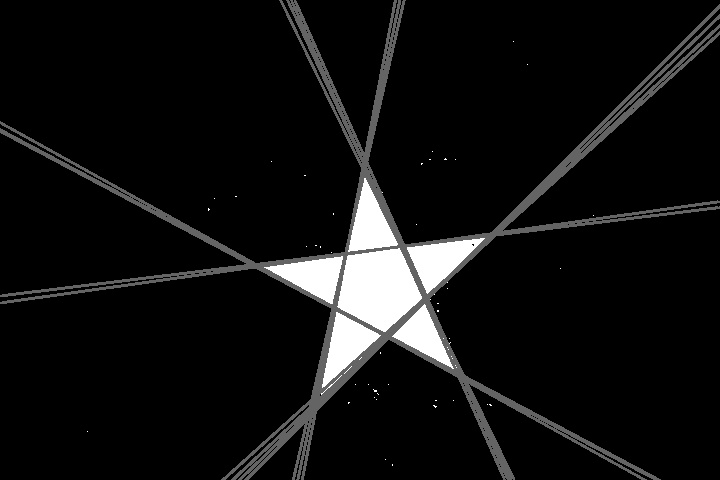
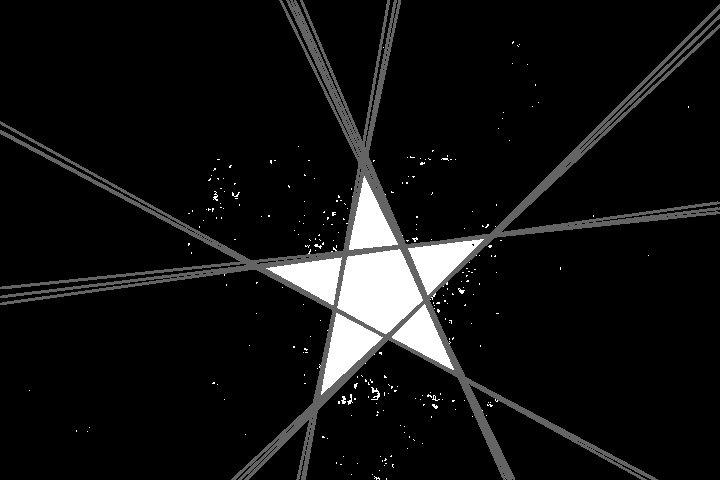
a

diff --git a/scan.py b/scan.py
@@ -38,8 +38,8 @@ while(scanNum < maxScans):
     #s=180-190
     #v=230-250
 
-    lower_orange = np.array([0,80,100])
-    upper_orange = np.array([35,255,255])
+    lower_orange = np.array([0,100,100])
+    upper_orange = np.array([25,255,255])
 
     # Threshold the HSV image to get only orange colors
     mask = cv2.inRange(hsv, lower_orange, upper_orange)

diff --git a/readImageAndModify.py b/readImageAndModify.py
@@ -29,7 +29,7 @@ print len(hsv[0])
 #v=230-250
 
 lower_orange = np.array([0,100,100])
-upper_orange = np.array([20,255,255])
+upper_orange = np.array([25,255,255])
 
 # Threshold the HSV image to get only orange colors
 mask = cv2.inRange(hsv, lower_orange, upper_orange)
